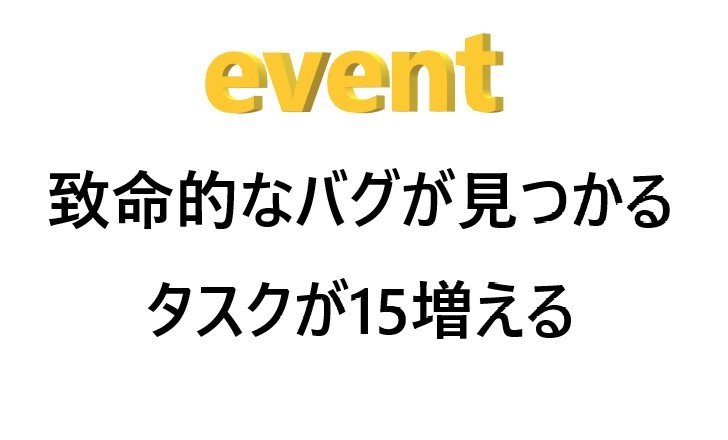
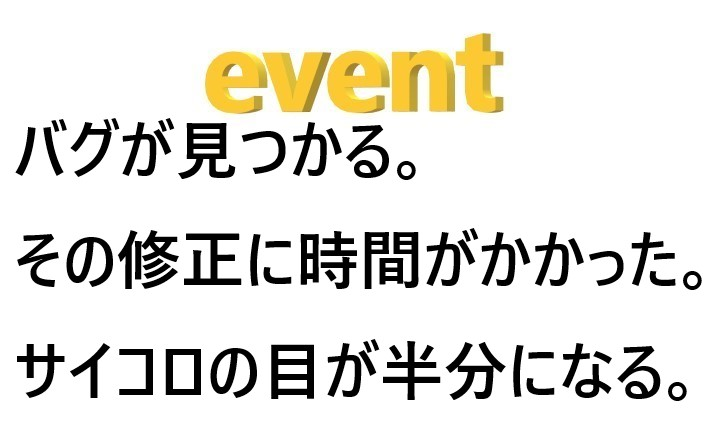
event処理などをを実装
eventカードの効果を追加
クリック回数を表示

Changed region(s): [[0.0, 0.2659, 0.967, 0.9159], [0.0, 0.3841, 0.0302, 0.4136]]

diff --git a/msotu.js b/msotu.js
@@ -6,6 +6,7 @@ let t3 = 27;
 let f1 = 0;
 let f2 = 0;
 let log = [];
+let cf = 0;
 
 /乱数で１～６の数字を生成しdaice.numに代入。数字に合ったgifを再生/
 
@@ -31,6 +32,7 @@ function ring() {
 
 function clikc() {
   clik = clik + 1;
+  document.getElementById( "kaisu" ).innerHTML = clik;
 }
 
 /タスク1をクリックしたときの処理/
@@ -44,12 +46,17 @@ function disp1(num) {
     } else {
       t1 = t1 - daiceme;
       daiceme = 0;
+      cf = 0;
       if (t1 > 0) {
         window.alert('残り' + t1 + 'です');
         document.images['dice'].src = '6d.gif'
         document.images['dice1'].src = '6d.gif'
+        document.images['card'].src = "card.png"
       } else {
         window.alert('お疲れ様です.task1をDoneに移動しましょう');
+        document.images['dice'].src = '6d.gif'
+        document.images['dice1'].src = '6d.gif'
+        document.images['card'].src = "card.png"
         f1 = 1;
       }
     }
@@ -58,17 +65,22 @@ function disp1(num) {
   if (num == 2) {
     if (t1 <= 0) {
       window.alert('task1はDoneです.Doneに移動させてください');
-    } else if (t1 == 24) {
+    } else if (t1 >= 24) {
       window.alert('task1はToDoです.ToDoに移動させてください');
     } else {
       t1 = t1 - daiceme;
       daiceme = 0;
+      cf = 0;
       if (t1 > 0) {
         window.alert('残り' + t1 + 'です');
         document.images['dice'].src = '6d.gif'
         document.images['dice1'].src = '6d.gif'
+        document.images['card'].src = "card.png"
       } else {
         window.alert('お疲れ様です.task1をDoneに移動しましょう');
+        document.images['dice'].src = '6d.gif'
+        document.images['dice1'].src = '6d.gif'
+        document.images['card'].src = "card.png"
         f1 = 1;
       }
     }
@@ -99,12 +111,17 @@ function disp2(num, be) {
         } else {
           t2 = t2 - daiceme;
           daiceme = 0;
+          cf = 0;
           if (t2 > 0) {
             window.alert('残り' + t2 + 'です');
             document.images['dice'].src = '6d.gif'
             document.images['dice1'].src = '6d.gif'
+            document.images['card'].src = "card.png"
           } else {
             window.alert('お疲れ様です.task2をDoneに移動しましょう');
+            document.images['dice'].src = '6d.gif'
+            document.images['dice1'].src = '6d.gif'
+            document.images['card'].src = "card.png"
             f2 = 1;
           }
         }
@@ -113,17 +130,22 @@ function disp2(num, be) {
       if (num == 2) {
         if (t2 <= 0) {
           window.alert('task2はDoneです.Doneに移動させてください');
-        } else if (t2 == 21) {
+        } else if (t2 >= 21) {
           window.alert('task2はToDoです.ToDoに移動させてください');
         } else {
           t2 = t2 - daiceme;
           daiceme = 0;
+          cf = 0;
           if (t2 > 0) {
             window.alert('残り' + t2 + 'です');
             document.images['dice'].src = '6d.gif'
             document.images['dice1'].src = '6d.gif'
+            document.images['card'].src = "card.png"
           } else {
             window.alert('お疲れ様です.task2をDoneに移動しましょう');
+            document.images['dice'].src = '6d.gif'
+            document.images['dice1'].src = '6d.gif'
+            document.images['card'].src = "card.png"
             f2 = 1;
           }
         }
@@ -159,12 +181,17 @@ function disp3(num, be) {
         } else {
           t3 = t3 - daiceme;
           daiceme = 0;
+          cf = 0;
           if (t3 > 0) {
             window.alert('残り' + t3 + 'です');
             document.images['dice'].src = '6d.gif'
             document.images['dice1'].src = '6d.gif'
+            document.images['card'].src = "card.png"
           } else {
             window.alert('お疲れ様です.task3をDoneに移動してもう一度クリックしてください');
+            document.images['dice'].src = '6d.gif'
+            document.images['dice1'].src = '6d.gif'
+            document.images['card'].src = "card.png"
           }
         }
       }
@@ -172,17 +199,22 @@ function disp3(num, be) {
       if (num == 2) {
         if (t3 <= 0) {
           window.alert('task3はDoneです.Doneに移動してもう一度クリックしてください');
-        } else if (t3 == 27) {
+        } else if (t3 >= 27) {
           window.alert('task3はToDoです.ToDoに移動させてください');
         } else {
           t3 = t3 - daiceme;
           daiceme = 0;
+          cf = 0;
           if (t3 > 0) {
             window.alert('残り' + t3 + 'です');
             document.images['dice'].src = '6d.gif'
             document.images['dice1'].src = '6d.gif'
+            document.images['card'].src = "card.png"
           } else {
             window.alert('お疲れ様です.task3をDoneに移動してもう一度クリックしてください');
+            document.images['dice'].src = '6d.gif'
+            document.images['dice1'].src = '6d.gif'
+            document.images['card'].src = "card.png"
           }
         }
       }
@@ -207,6 +239,54 @@ function disp3(num, be) {
 
 
 function chance() {
-  let chance = Math.floor(Math.random() * 8) + 1;
-  document.images['card'].src = "e" + chance + ".jpg"
+  if (daiceme == 0) {
+    window.alert('先にダイスを振りましょう');
+  } else if (cf == 0) {
+    let chance = Math.floor(Math.random() * 8) + 1;
+    document.images['card'].src = "e" + chance + ".jpg"
+    event(chance);
+    cf = 1;
+  }
+}
+
+function event(c) {
+
+  if (c == 1) {
+    daiceme = daiceme + 2;
+  }
+
+  if (c == 2) {
+    clikc();
+    clikc();
+  }
+
+  if (c == 3) {
+    if (f2 == 1) {
+      t3 = 27;
+      window.alert('タスクが27になりました ToDoに移動させてください');
+    } else if (f1 == 1) {
+      t2 = 21;
+      window.alert('タスクが21になりました ToDoに移動させてください');
+    } else {
+      t1 = 24;
+      window.alert('タスクが24になりました ToDoに移動させてください');
+    }
+  }
+
+ if(c==4){
+   daiceme = 1000;
+ }
+
+ if(c==5){
+   daiceme= daiceme*2;
+ }
+
+ if(c==6){
+   daiceme=daiceme + 4;
+ }
+
+
+ if (c==8){
+  daiceme=daiceme/2;
+ }
 }

diff --git a/start.html b/start.html
@@ -49,7 +49,7 @@
   <span><img src="6d.gif" id="skill" class="skill" onclick="daice(); ring();" alt="" name="dice"></span>
   <span><img src="6d.gif" id="skill1" class="skill1" onclick="daice(); ring();" alt="" name="dice1"></span>
   <span><img src="card.png" id="card" class="card" onclick="chance();" width="300" height="200" name="card"></span>
-
+  <p class="sukoa">　　スコア； <span id="kaisu">0</span></p>
 
 
   <audio id="stbgm" preload="auto" autoplay loop>
@@ -77,12 +77,14 @@
     evt.stopPropagation();
   }, false);
 
+
   task2.addEventListener("dragstart", function(evt) {
 
     //ドラッグ要素のidをdataTransferにセット
     evt.dataTransfer.setData("text/plain", evt.target.id);
     evt.stopPropagation();
   }, false);
+
 
   task3.addEventListener("dragstart", function(evt) {
 

diff --git a/stposition.css b/stposition.css
@@ -66,8 +66,11 @@
   cursor: pointer;
 }
 
-
-
+.sukoa{
+position: absolute;
+top: 750px;
+font-size:50px;
+}
 
 
 
